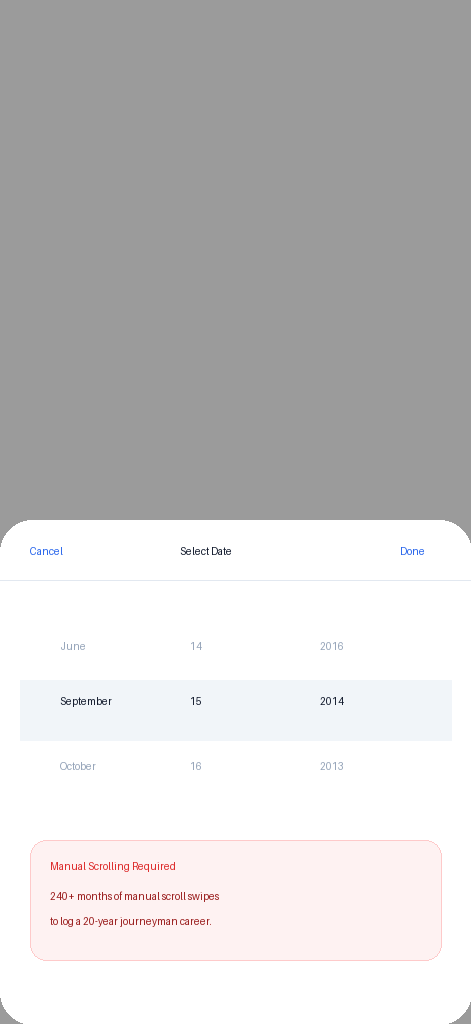
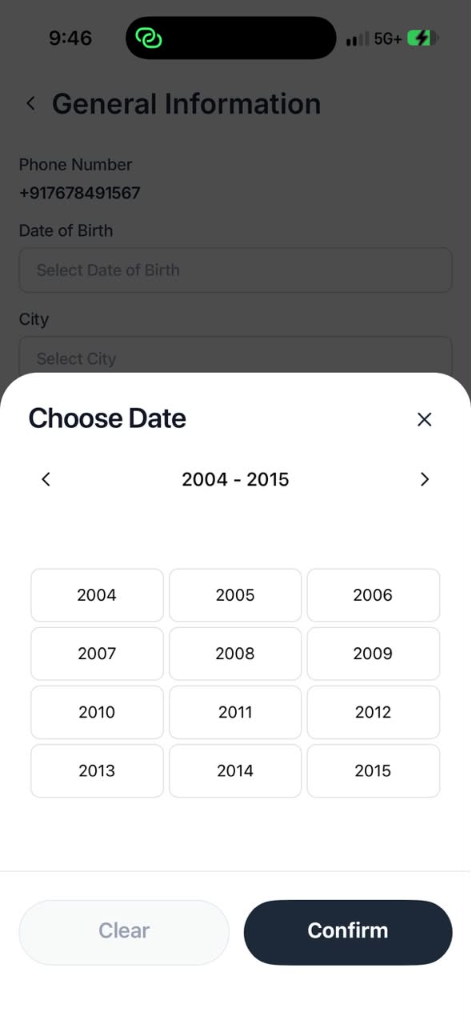
feat: Update audit screenshots, add Loom & HTML links in hero and section 5, remove section numbering and footer

diff --git a/case-study.html b/case-study.html
@@ -194,9 +194,42 @@
 
   </section>
 
+  <!-- ===================================================================== -->
+  <!-- INTERACTIVE DELIVERABLES: HTML PROTOTYPE & LOOM VIDEO LINKS           -->
+  <!-- ===================================================================== -->
+  <div class="w-full bg-white border-b border-slate-200/90 py-6 px-6 sm:px-10">
+    <div class="max-w-7xl mx-auto flex flex-col sm:flex-row items-center justify-between gap-4">
+      <div class="flex items-center gap-3">
+        <span class="w-2.5 h-2.5 rounded-full bg-emerald-500 animate-pulse"></span>
+        <span class="text-xs font-semibold text-slate-800 tracking-tight">Interactive Deliverables</span>
+        <span class="text-slate-300 hidden sm:inline">•</span>
+        <span class="text-xs text-slate-500 hidden sm:inline">Explore the live product flow & video explainer</span>
+      </div>
+
+      <div class="flex items-center gap-3 w-full sm:w-auto">
+        <!-- HTML Prototype Button -->
+        <a href="index.html" target="_blank" rel="noopener noreferrer" class="flex-1 sm:flex-initial inline-flex items-center justify-center gap-2 px-5 py-2.5 rounded-full bg-[#2C4A6F] text-white text-xs font-semibold shadow-sm hover:bg-[#1E3550] transition-colors group">
+          <svg class="w-4 h-4 text-amber-300 group-hover:scale-110 transition-transform" fill="none" stroke="currentColor" stroke-width="2" viewBox="0 0 24 24">
+            <path stroke-linecap="round" stroke-linejoin="round" d="M10 20l4-16m4 4l4 4-4 4M6 16l-4-4 4-4"/>
+          </svg>
+          <span>Interactive HTML Prototype</span>
+          <span class="text-[10px] bg-white/20 px-1.5 py-0.5 rounded font-mono">LIVE</span>
+        </a>
+
+        <!-- Loom Video Explainer Button -->
+        <a href="https://www.loom.com/share/your-loom-video-id" target="_blank" rel="noopener noreferrer" class="flex-1 sm:flex-initial inline-flex items-center justify-center gap-2 px-5 py-2.5 rounded-full bg-slate-100 hover:bg-slate-200/80 text-slate-800 text-xs font-semibold border border-slate-200 transition-colors group">
+          <svg class="w-4 h-4 text-[#625DF5] group-hover:scale-110 transition-transform" viewBox="0 0 24 24" fill="currentColor">
+            <path d="M12 2C6.48 2 2 6.48 2 12s4.48 10 10 10 10-4.48 10-10S17.52 2 12 2zm-2 14.5v-9l6 4.5-6 4.5z"/>
+          </svg>
+          <span>Quick Loom Explainer</span>
+          <span class="text-[10px] text-slate-500 font-normal">(Video)</span>
+        </a>
+      </div>
+    </div>
+  </div>
 
   <!-- ===================================================================== -->
-  <!-- SECTION 2: THE CONTEXT (App, Users, & The Core Problem)               -->
+  <!-- THE CONTEXT (App, Users, & The Core Problem)                          -->
   <!-- ===================================================================== -->
   <section id="context" class="w-full py-20 sm:py-28 border-b border-slate-200/80 avoid-break">
     <div class="max-w-7xl mx-auto px-6 sm:px-10 space-y-16">
@@ -204,7 +237,7 @@
       <!-- Lead Statement -->
       <div class="space-y-4 max-w-4xl">
         <span class="text-xs font-semibold uppercase tracking-wider text-[#2C4A6F]">
-          Section 01 / The Context
+          The Context
         </span>
         <h3 class="text-2xl sm:text-3xl md:text-4xl font-semibold tracking-tight text-slate-900 leading-[1.25]">
           Construction careers do not follow corporate trajectories. Tradespeople define their professional identity by certifications and physical on-site hours—not static PDF resumes.
@@ -298,10 +331,10 @@
       <!-- Section Header & Overview -->
       <div class="space-y-4 max-w-4xl">
         <span class="text-xs font-semibold uppercase tracking-wider text-rose-600">
-          Section 02 / Heuristic Audit
+          Heuristic Audit
         </span>
         <h3 class="text-2xl sm:text-3xl md:text-4xl font-semibold tracking-tight text-slate-900 leading-[1.2]">
-          Section 3: System Audit and The Friction Points
+          System Audit & The Friction Points
         </h3>
         <p class="text-base text-slate-600 leading-relaxed font-normal max-w-3xl">
           The current BuilderFax app assumes a standard corporate user experience, which breaks down on an active construction site. By relying on digital resumes, broken input components, and missing system feedback, the application forces tradespeople into a high friction data entry loop.
@@ -331,7 +364,7 @@
             </div>
 
             <h4 class="text-2xl sm:text-3xl font-semibold tracking-tight text-slate-900 leading-snug">
-              Card 1: The Resume Dead End & Silent Failures
+              The Resume Dead End & Silent Failures
             </h4>
 
             <div class="space-y-2">
@@ -366,7 +399,7 @@
             </div>
 
             <h4 class="text-2xl sm:text-3xl font-semibold tracking-tight text-slate-900 leading-snug">
-              Card 2: High Cognitive Load
+              High Cognitive Load
             </h4>
 
             <div class="space-y-2">
@@ -419,7 +452,7 @@
             </div>
 
             <h4 class="text-2xl sm:text-3xl font-semibold tracking-tight text-slate-900 leading-snug">
-              Card 3: Component Friction (The Calendar Problem)
+              Component Friction: The Calendar Problem
             </h4>
 
             <div class="space-y-2">
@@ -454,7 +487,7 @@
             </div>
 
             <h4 class="text-2xl sm:text-3xl font-semibold tracking-tight text-slate-900 leading-snug">
-              Card 4: Rigid File Management
+              Rigid File Management
             </h4>
 
             <div class="space-y-2">
@@ -507,7 +540,7 @@
             </div>
 
             <h4 class="text-2xl sm:text-3xl font-semibold tracking-tight text-slate-900 leading-snug">
-              Card 5: The Repetitive Entry Loop
+              The Repetitive Entry Loop
             </h4>
 
             <div class="space-y-2">
@@ -545,7 +578,7 @@
       
       <div class="space-y-4 max-w-4xl">
         <span class="text-xs font-semibold uppercase tracking-wider text-[#2C4A6F]">
-          Section 03 / Strategic Pivot
+          Strategic Pivot
         </span>
         <h3 class="text-2xl sm:text-3xl md:text-4xl font-semibold tracking-tight text-slate-900 leading-[1.2]">
           Redefining the Data Engine: Direct Handshakes with Enterprise Construction Sources
@@ -687,7 +720,7 @@
       
       <div class="space-y-4 max-w-4xl">
         <span class="text-xs font-semibold uppercase tracking-wider text-[#2C4A6F]">
-          Section 04 / Task Analysis
+          Task Analysis
         </span>
         <h3 class="text-2xl sm:text-3xl md:text-4xl font-semibold tracking-tight text-slate-900 leading-[1.2]">
           Select Once, Add Many: The Task Architecture
@@ -766,7 +799,7 @@
       
       <div class="space-y-4 max-w-4xl">
         <span class="text-xs font-semibold uppercase tracking-wider text-[#2C4A6F]">
-          Section 05 / Interface Design
+          Interface Design
         </span>
         <h3 class="text-2xl sm:text-3xl md:text-4xl font-semibold tracking-tight text-slate-900 leading-[1.2]">
           The Interface: Screen by Screen Walkthrough
@@ -774,6 +807,25 @@
         <p class="text-base text-slate-600 leading-relaxed font-normal max-w-3xl">
           A high-contrast mobile design system engineered for outdoor job site glare, dirty fingers, and rapid supervisor gate verification.
         </p>
+
+        <!-- Interactive Deliverables Bar (Section 5) -->
+        <div class="pt-4 flex flex-col sm:flex-row items-center gap-3">
+          <a href="index.html" target="_blank" rel="noopener noreferrer" class="w-full sm:w-auto inline-flex items-center justify-center gap-2 px-5 py-2.5 rounded-full bg-[#2C4A6F] text-white text-xs font-semibold shadow-sm hover:bg-[#1E3550] transition-colors group">
+            <svg class="w-4 h-4 text-amber-300 group-hover:scale-110 transition-transform" fill="none" stroke="currentColor" stroke-width="2" viewBox="0 0 24 24">
+              <path stroke-linecap="round" stroke-linejoin="round" d="M10 20l4-16m4 4l4 4-4 4M6 16l-4-4 4-4"/>
+            </svg>
+            <span>Interactive HTML Prototype</span>
+            <span class="text-[10px] bg-white/20 px-1.5 py-0.5 rounded font-mono">LIVE</span>
+          </a>
+
+          <a href="https://www.loom.com/share/your-loom-video-id" target="_blank" rel="noopener noreferrer" class="w-full sm:w-auto inline-flex items-center justify-center gap-2 px-5 py-2.5 rounded-full bg-white hover:bg-slate-50 text-slate-800 text-xs font-semibold border border-slate-300 shadow-xs transition-colors group">
+            <svg class="w-4 h-4 text-[#625DF5] group-hover:scale-110 transition-transform" viewBox="0 0 24 24" fill="currentColor">
+              <path d="M12 2C6.48 2 2 6.48 2 12s4.48 10 10 10 10-4.48 10-10S17.52 2 12 2zm-2 14.5v-9l6 4.5-6 4.5z"/>
+            </svg>
+            <span>Quick Loom Explainer</span>
+            <span class="text-[10px] text-slate-500 font-normal">(Video)</span>
+          </a>
+        </div>
       </div>
 
       <!-- 3-Column Interface Walkthrough Bento -->
@@ -885,7 +937,7 @@
       
       <div class="space-y-4 max-w-4xl">
         <span class="text-xs font-semibold uppercase tracking-wider text-emerald-700">
-          Section 06 / Validation
+          Validation & Success Metrics
         </span>
         <h3 class="text-2xl sm:text-3xl md:text-4xl font-semibold tracking-tight text-slate-900 leading-[1.2]">
           Heuristic Spider Radar & Quantitative Metrics
@@ -1034,45 +1086,7 @@
   </section>
 
 
-  <!-- ===================================================================== -->
-  <!-- SECTION 8: FULL-BLEED DARK FOOTER & DESIGNER SIGNATURE                -->
-  <!-- ===================================================================== -->
-  <footer class="w-full bg-obsidian text-white py-20 sm:py-28 avoid-break">
-    <div class="max-w-7xl mx-auto px-6 sm:px-10 space-y-16">
-      
-      <div class="flex flex-col lg:flex-row lg:items-center justify-between gap-12 pb-16 border-b border-slate-800/80">
-        <div class="space-y-4 max-w-2xl">
-          <span class="text-xs font-semibold uppercase tracking-wider text-blue-400">Executive Conclusion</span>
-          <h3 class="text-2xl sm:text-3xl lg:text-4xl font-semibold tracking-tight text-white leading-tight">
-            "When software honors the real-world artifacts of the job site, workforce fog evaporates."
-          </h3>
-          <p class="text-sm text-slate-400 leading-relaxed font-normal">
-            By shifting from static paper CVs to verified payroll pipes and nested role batching, BuilderFax establishes the premier digital identity pass for America's commercial builders.
-          </p>
-        </div>
 
-        <div class="bg-surfaceDark border border-slate-800 p-8 rounded-[28px] space-y-4 text-left shadow-lg">
-          <div class="flex items-center gap-4">
-            <div class="w-14 h-14 rounded-2xl bg-[#2C4A6F] text-white font-extrabold flex items-center justify-center text-lg shadow-md">
-              VK
-            </div>
-            <div>
-              <h4 class="text-base font-bold text-white tracking-tight">Vikhyat Kaushik</h4>
-              <p class="text-xs text-slate-400">Product & UX Designer • Systems Architecture</p>
-            </div>
-          </div>
-          <p class="text-xs text-slate-500 font-mono">PORTFOLIO ASSIGNMENT • LUMBER FI</p>
-        </div>
-      </div>
-
-      <!-- Footer Sub-bar -->
-      <div class="flex flex-col sm:flex-row items-center justify-between gap-6 text-xs text-slate-500">
-        <p>© 2026 Vikhyat Kaushik. Built for BuilderFax by Lumber.</p>
-        <span class="font-light">A4 / Letter Print Optimized</span>
-      </div>
-
-    </div>
-  </footer>
 
   <!-- ===================================================================== -->
   <!-- JAVASCRIPT: KEYBOARD LISTENER FOR 'P' TO TRIGGER CLEAN PRINT-TO-PDF   -->
